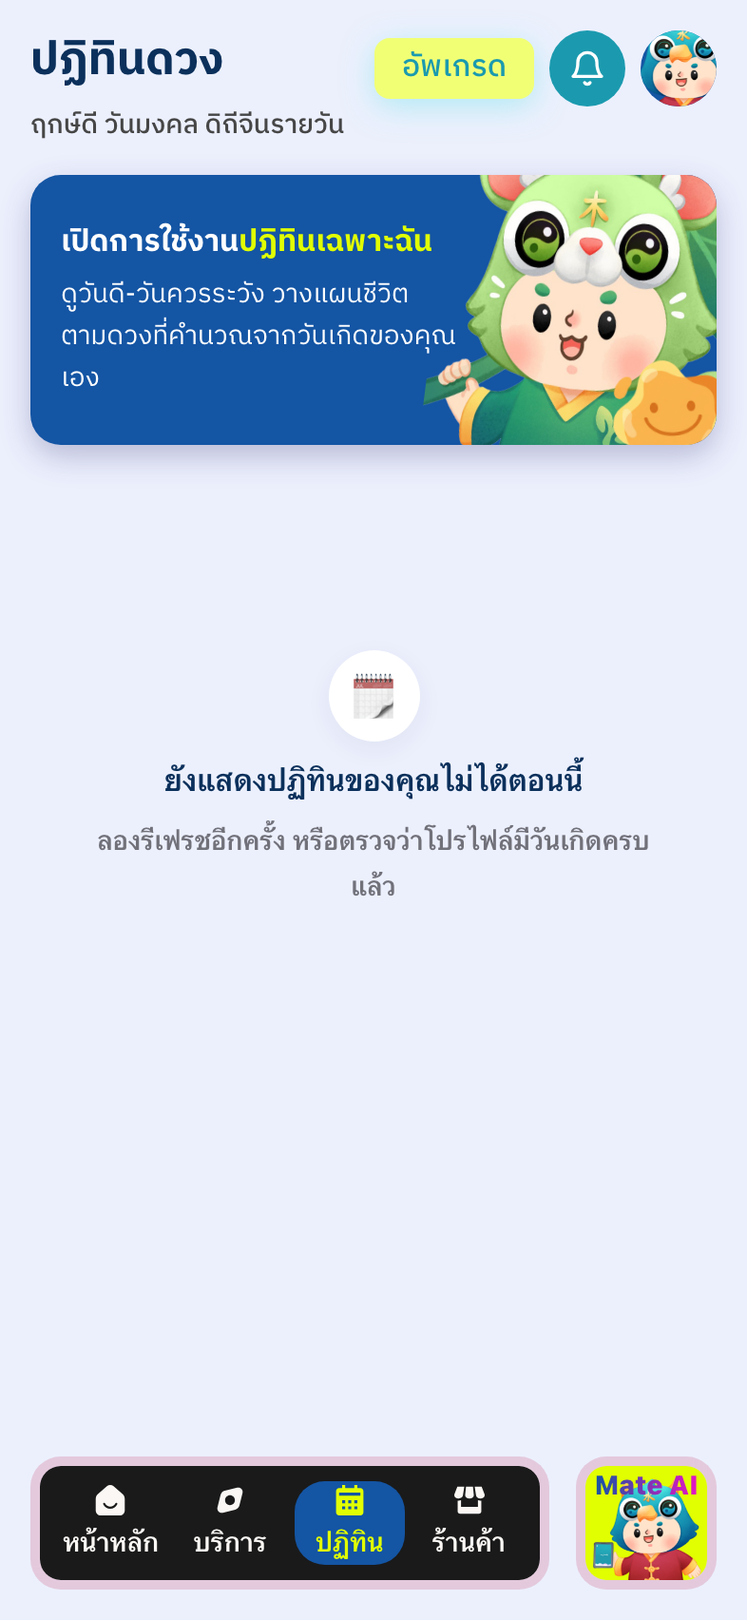
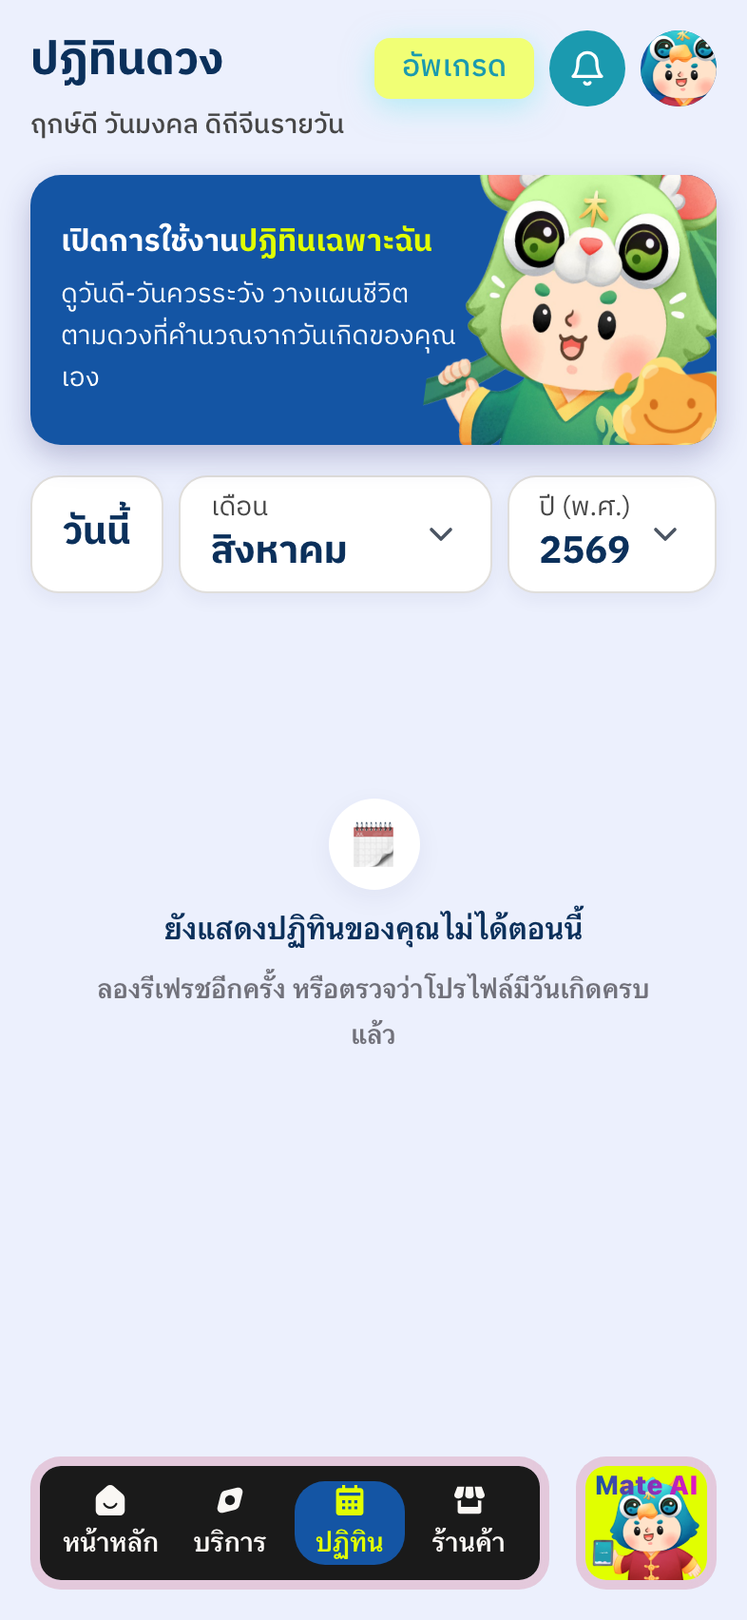
fix(v2-calendar): แถบเลือกวันอยู่ตลอดทุกสภาพ + ช่วงปี 21 ปี
แถบ [วันนี้][เดือน][ปี] เคยอยู่ใน viewState === 'ready' → มันหายไปพร้อมกับ
ทางออกเดียวที่ผู้ใช้มี ตอนเดือนโหลดไม่สำเร็จ/กำลังโหลด/บัญชีไม่มีวันเกิด

วัดบน main a4560da ก่อนแตะโค้ด (393×852 · context ใหม่ทุกสภาพ · API stub):
  แถบโผล่ 1 ใน 6 สภาพ
  กดเปลี่ยนเดือน → หายจริง 53/200 เฟรม (t=183…1048ms) ยาวเท่าเวลา fetch
  cold load: first-bar 378ms = first-grid 378ms (แถบไม่เคยมาก่อนตาราง)
หลังแก้: หาย 0 เฟรม · top/height คงที่ · first-bar 301ms < first-grid 314ms

- pages/v2/calendar.tsx  ย้าย <DateSelector/> ออกนอกเงื่อนไข ready
                         ลำดับ promo · selector · body เท่าเดิม แถบไม่ขยับ
- DateSelector.tsx       รับ number|null (seam ใหม่ของ goo 6ddab14) → "—" +
                         disabled ตอน cursor ยังไม่ลง, ไม่มีเดือนปลอม
                         ช่วงปี 11 → 21 (ย้อน 10 หน้า 10 — ฟีม)
- CalendarSkeleton.tsx   ถอดแถบปลอม 46px ออก (ของจริง 62px มาตลอดแล้ว)
                         46↔62 คือการเลื่อน 16px ที่เกิดเพราะ stand-in ถือขนาดเอง

ไม่มีด่านใหม่ — เติม 6 assertion ลง run-calendar-select.ts ที่ต่อ CI อยู่แล้ว
มิวแทนต์ mut-selector-hidden (ใส่เงื่อนไข ready กลับ): 31/0 → 25/6 exit=1
รอบแรกมันทำให้ด่าน crash ไม่ใช่แดง → ใส่ guard จนแดงครบแล้ววิ่งจนจบ

negative control หัก scrollIntoView ที่ผมเขียนเองทิ้ง: ปีปัจจุบันเห็นครบอยู่แล้ว
ทั้ง 852/667/600/520 และมันบัง 2559–2561 = ครึ่ง "ย้อน 10" ที่เพิ่งสั่ง

🔴 ยังเปิดอยู่ ไม่ได้แก้ในใบนี้: /api/user ล้ม → computeTier คืน isPaid null
[…]

diff --git a/features/v2-calendar/components/DateSelector.tsx b/features/v2-calendar/components/DateSelector.tsx
@@ -16,6 +16,21 @@
 //
 // The cursor still belongs to goo's `useCalendarMonth` (goPrev/goNext/goToday). This component does not own
 // state; `onPick(year, month)` is applied by stepping that cursor, so the hook's signature is untouched.
+//
+// ── selector-always (2026-08-07) ────────────────────────────────────────────────────────────────────────
+// This row used to render only inside the page's `viewState === 'ready'` branch, so the moment a month was
+// in flight or failed to arrive it vanished — WITH the only controls that could get the user out. Measured
+// on main a4560da before touching anything: present in 1 of 6 states, and gone for 53 consecutive frames
+// (~865ms, i.e. as long as the fetch takes) on every ordinary month change. It is now rendered in every
+// state, which puts two new obligations on this component:
+//
+//   • `year` / `monthIndex` are `number | null` (goo's revised seam @6ddab14). `null` means the cursor has
+//     not resolved — pre-mount / SSR / first paint — and it is the reason the old `?? MOCK_YEAR` fallback
+//     died: a bar that is always on screen would have made "กรกฎาคม 2569" a permanent, believable lie.
+//     A neutral em dash is the honest label; the two pickers are disabled because there is no cursor to
+//     move yet. Nothing else changes shape, so resolving the cursor cannot shift the row.
+//   • the year list is 21 wide (−10…+10, ฟีม 2026-08-07) instead of 11, which is more than fits a short
+//     screen — see the note in Sheet for what that does and does NOT need.
 import { useState } from 'react'
 
 const THAI_MONTHS = ['มกราคม', 'กุมภาพันธ์', 'มีนาคม', 'เมษายน', 'พฤษภาคม', 'มิถุนายน', 'กรกฎาคม', 'สิงหาคม', 'กันยายน', 'ตุลาคม', 'พฤศจิกายน', 'ธันวาคม']
@@ -36,15 +51,23 @@ function Sheet({ title, options, current, onPick, onClose }: {
   onPick: (v: number) => void
   onClose: () => void
 }) {
+  // 21 years overflow a 70vh sheet on a short phone (content 460px vs 420px at 393×600 / 364px at 393×520),
+  // so the panel scrolls — MEASURED, not assumed. I also wrote a scrollIntoView to put the current year in
+  // view and then negative-controlled it: with the scroll reset to 0 the current year is STILL fully visible
+  // at 852 / 667 / 600 / 520. It is pinned at index 10 of 21 → row 4 of 7, which is above the fold at every
+  // height a phone has. The scroll was solving nothing and cost something (it opened the list 27–60px down,
+  // clipping 2559–2561 — the "ย้อน 10" half of what ฟีม just asked for), so it is gone. The hooks the
+  // control needed (`data-testid="date-sheet"`, `data-current`) stay — they are how the claim was checked.
   return (
     <div className="fixed inset-0 z-50 flex items-end justify-center bg-black/30" onClick={onClose} role="dialog" aria-label={title}>
-      <div className="max-h-[70vh] w-full max-w-md overflow-y-auto rounded-t-[28px] bg-white p-6 pb-10 font-ibm" onClick={(e) => e.stopPropagation()}>
+      <div data-testid="date-sheet" className="max-h-[70vh] w-full max-w-md overflow-y-auto rounded-t-[28px] bg-white p-6 pb-10 font-ibm" onClick={(e) => e.stopPropagation()}>
         <p className="mb-4 text-[16px] font-bold leading-6 text-v3-navy">{title}</p>
         <div className="grid grid-cols-3 gap-2">
           {options.map((o) => (
             <button
               key={o.value}
               type="button"
+              data-current={o.value === current || undefined}
               onClick={() => { onPick(o.value); onClose() }}
               className={`rounded-xl px-2 py-3 text-[14px] font-medium leading-5 ${o.value === current ? 'bg-v3-sapphire text-white' : 'bg-v3-ghost-white text-v3-navy'}`}
             >
@@ -57,41 +80,54 @@ function Sheet({ title, options, current, onPick, onClose }: {
   )
 }
 
+/** ย้อน 10 – หน้า 10 (ฟีม 2026-08-07). Was ±5, which could not reach a birthday two elections ago. */
+const YEARS_BACK = 10
+const YEARS_FORWARD = 10
+/** the label when the cursor has not resolved. NOT a month — see the header. */
+const UNKNOWN = '—'
+
 export function DateSelector({ year, monthIndex, onToday, onPick }: {
-  /** CE year of the cursor — displayed as พ.ศ. (+543) */
-  year: number
-  /** 1–12 */
-  monthIndex: number
+  /** CE year of the cursor — displayed as พ.ศ. (+543). `null` = cursor not resolved yet (pre-mount). */
+  year: number | null
+  /** 1–12. `null` = cursor not resolved yet (pre-mount). */
+  monthIndex: number | null
   onToday: () => void
   onPick: (year: number, monthIndex: number) => void
 }) {
   const [open, setOpen] = useState<null | 'month' | 'year'>(null)
-  // ±5 years around the cursor — enough to plan ahead or look back without an infinite list
-  const years = Array.from({ length: 11 }, (_, i) => year - 5 + i)
+  // A cursor of `null` is the ONLY state where this row cannot act, and both halves of it go together —
+  // there is no such thing as a known month with an unknown year. One flag, so the row cannot render a
+  // live month picker next to a dead year one.
+  const known = year !== null && monthIndex !== null
+  const years = known ? Array.from({ length: YEARS_BACK + 1 + YEARS_FORWARD }, (_, i) => year - YEARS_BACK + i) : []
 
   return (
-    <div data-testid="date-selector" className="flex items-center gap-2 font-ibm">
-      <button type="button" onClick={onToday} data-testid="date-today" className={`${CARD} justify-center px-4 text-[20px] font-bold leading-7 text-v3-navy`}>
+    <div data-testid="date-selector" data-cursor={known ? 'known' : 'unknown'} className="flex items-center gap-2 font-ibm">
+      {/* "วันนี้" is the escape hatch this whole PR exists for — it moves goo's CURSOR, not the month, so it
+          still works when the month failed to load. It is disabled only while there is no cursor to move
+          (goToday is a no-op before mount); a button that looks pressable and does nothing is the bug #191
+          went and fixed everywhere else on this screen. */}
+      <button type="button" onClick={onToday} disabled={!known} data-testid="date-today" className={`${CARD} justify-center px-4 text-[20px] font-bold leading-7 text-v3-navy disabled:opacity-50`}>
         วันนี้
       </button>
 
-      <button type="button" onClick={() => setOpen('month')} data-testid="date-month" className={`${CARD} min-w-0 flex-1 justify-between gap-2 px-4`}>
+      <button type="button" onClick={() => setOpen('month')} disabled={!known} data-testid="date-month" className={`${CARD} min-w-0 flex-1 justify-between gap-2 px-4 disabled:opacity-50`}>
         <span className="flex min-w-0 flex-col items-start">
           <span className="text-[14px] leading-5 text-v3-text-body">เดือน</span>
-          <span className="truncate text-[20px] font-bold leading-7 text-v3-navy">{THAI_MONTHS[monthIndex - 1]}</span>
+          <span className="truncate text-[20px] font-bold leading-7 text-v3-navy">{monthIndex ? THAI_MONTHS[monthIndex - 1] : UNKNOWN}</span>
         </span>
         <Chevron />
       </button>
 
-      <button type="button" onClick={() => setOpen('year')} data-testid="date-year" className={`${CARD} justify-between gap-2 px-4`}>
+      <button type="button" onClick={() => setOpen('year')} disabled={!known} data-testid="date-year" className={`${CARD} justify-between gap-2 px-4 disabled:opacity-50`}>
         <span className="flex flex-col items-start">
           <span className="whitespace-nowrap text-[14px] leading-5 text-v3-text-body">ปี (พ.ศ.)</span>
-          <span className="text-[20px] font-bold leading-7 text-v3-navy">{year + 543}</span>
+          <span className="text-[20px] font-bold leading-7 text-v3-navy">{year === null ? UNKNOWN : year + 543}</span>
         </span>
         <Chevron />
       </button>
 
-      {open === 'month' && (
+      {known && open === 'month' && (
         <Sheet
           title="เลือกเดือน"
           current={monthIndex}
@@ -100,7 +136,7 @@ export function DateSelector({ year, monthIndex, onToday, onPick }: {
           onClose={() => setOpen(null)}
         />
       )}
-      {open === 'year' && (
+      {known && open === 'year' && (
         <Sheet
           title="เลือกปี (พ.ศ.)"
           current={year}

diff --git a/harness/run-calendar-select.ts b/harness/run-calendar-select.ts
@@ -124,6 +124,21 @@ async function main() {
     const anims = await page.$eval('[data-testid="calendar-skeleton"] .animate-pulse', (el) => el.getAnimations().length)
     await page.screenshot({ path: 'harness/out/calendar-state-loading-393.png' })
     check('the loading skeleton pulses (the animation is the claim work is in flight)', anims > 0, `${anims} animations`)
+    // selector-always (2026-08-07) — added to THIS anchor rather than a new one, because it already opens
+    // exactly the states the claim is about. The row used to live inside the page's `ready` branch, so it
+    // vanished while the month was in flight, taking วันนี้/เดือน/ปี with it: measured on main a4560da as
+    // absent in 5 of 6 states and gone for ~865ms on every month change.
+    check('the SELECTOR is still on screen while the month loads', (await page.locator('[data-testid="date-selector"]').count()) === 1)
+    check('and it is the real row, not a grey stand-in', (await page.locator('[data-testid="date-selector"] > button').count()) === 3)
+    // The skeleton used to draw a 46px placeholder bar of its own. It has no testid, so counting selectors
+    // cannot see it — the thing that CAN is the geometry: a leftover bar would sit between the real row and
+    // the grid card and blow the container's single 16px gap apart. Asserting the gap, not the absence.
+    const gap = await page.evaluate(() => {
+      const sel = document.querySelector('[data-testid="date-selector"]')?.getBoundingClientRect()
+      const sk = document.querySelector('[data-testid="calendar-skeleton"]')?.getBoundingClientRect()
+      return sel && sk ? Math.round(sk.top - sel.bottom) : NaN
+    })
+    check('no stand-in bar left stacked under the real one (gap is one container gap)', gap >= 0 && gap <= 20, `gap=${gap}px`)
     // 2 · SKELETON-RESOLVES — and it must END
     await page.locator('[data-testid="calendar-grid"]').waitFor({ timeout: 15000 })
     check('the skeleton is gone once the month lands', (await page.locator('[data-testid="calendar-skeleton"]').count()) === 0)
@@ -145,6 +160,17 @@ async function main() {
     const msg = await page.locator('[data-testid="calendar-unavailable"]').textContent()
     await page.screenshot({ path: 'harness/out/calendar-state-unavailable-393.png' })
     check('it says something rather than showing a silent placeholder', !!msg && msg.trim().length > 10, `"${msg?.trim().slice(0, 40)}…"`)
+    // selector-always — the settled-empty screen is the one a user cannot leave without this row: there is
+    // no month, so there is nothing else on the page to press.
+    const sel = page.locator('[data-testid="date-selector"]')
+    const selHere = (await sel.count()) === 1
+    check('the SELECTOR survives the settled-empty screen', selHere)
+    // Guarded on `selHere`: unguarded, getAttribute/isEnabled on an absent node THROW, and the anchor dies
+    // mid-run instead of reporting — proven live against mut-selector-hidden, which crashed here and
+    // swallowed the two checks below. A gate that crashes reports nothing at all; it must go red and finish.
+    check('its cursor is real, not "unknown"', selHere && (await sel.getAttribute('data-cursor')) === 'known', selHere ? String(await sel.getAttribute('data-cursor')) : 'no selector')
+    // the escape hatch has to be PRESSABLE, not merely painted — #191's bug class
+    check('วันนี้ is enabled here (the way out of a monthless screen)', selHere && (await page.locator('[data-testid="date-today"]').isEnabled()), selHere ? '' : 'no selector')
     await close()
   }
 

diff --git a/pages/v2/calendar.tsx b/pages/v2/calendar.tsx
@@ -44,6 +44,7 @@ export default function V2CalendarPage() {
   // with (goPrev/goNext/goToday) — the seam stays his. React batches the functional updates, so N calls
   // land as a single render.
   const goTo = (y: number, m: number) => {
+    if (year === null || monthIndex === null) return // no cursor to step from (pre-mount); the row is disabled then
     const delta = (y - year) * 12 + (m - monthIndex)
     const step = delta > 0 ? goNext : goPrev
     for (let i = 0; i < Math.abs(delta); i++) step()
@@ -89,6 +90,15 @@ export default function V2CalendarPage() {
             both states rather than being stood in for by a grey block. */}
         {isPaid === false && <PersonalCalendarPromo />}
 
+        {/* selector-always (2026-08-07) — OUTSIDE the ready branch, and that position is the whole PR.
+            It used to live inside it, so the row of controls disappeared exactly when it was the only way
+            out: month in flight, month 500, account with no birth date. Measured on main a4560da before
+            the move — present in 1 of 6 states, and absent for 53 straight frames (~865ms, as long as the
+            fetch takes) on an ordinary month change. It survives here because it binds to goo's CURSOR
+            (year/monthIndex/goToday), which is real in every state, and never to `month`.
+            Order is unchanged: promo · selector · body — so the skeleton→ready swap below cannot move it. */}
+        <DateSelector year={year} monthIndex={monthIndex} onToday={goToday} onPick={goTo} />
+
         {/* M-A — the body is a skeleton until a month is in hand. Rendered, not merely hidden, when ready:
             the card below dereferences `cardDay` on every prop, so a `hidden` column would still evaluate
             them and crash on the very states the skeleton exists for. */}
@@ -96,8 +106,6 @@ export default function V2CalendarPage() {
 
         {viewState === 'ready' && month && cardDay && (
         <>
-        <DateSelector year={year} monthIndex={monthIndex} onToday={goToday} onPick={goTo} />
-
         <MonthGrid weeks={month.weeks} selectedDate={selectedDate} onSelect={selectDay} />
 
         {/* Figma 375:11100 — the card and its CTA are ONE card; the CTA was a separate button below it. */}

diff --git a/features/v2-calendar/components/CalendarSkeleton.tsx b/features/v2-calendar/components/CalendarSkeleton.tsx
@@ -58,13 +58,12 @@ export function CalendarSkeleton({ state }: { state: 'loading' | 'unavailable' }
           contradicting message. A settled screen with nothing to show says so and stops drawing furniture. */}
       {loading && (
       <div className="flex flex-col gap-4 animate-pulse">
-        {/* selector bar — the real one shows a month, and showing the WRONG month (the cursor falls back to
-            the fixture constants before it resolves) would be worse than showing none */}
-        <div className="flex items-center gap-2">
-          <span className={`h-[46px] flex-1 ${BLOCK}`} />
-          <span className={`h-[46px] flex-1 ${BLOCK}`} />
-          <span className={`h-[46px] flex-1 ${BLOCK}`} />
-        </div>
+        {/* NO selector bar here any more (selector-always, 2026-08-07). It used to draw one — three 46px
+            grey blocks — because the real row was locked inside the page's ready branch and the cursor
+            could only offer a fixture month. The real row now renders in every state, above this component,
+            so a placeholder for it would stack a second bar under the first. It was also 46px against the
+            real row's 62px, i.e. the month landing swapped one for the other and moved everything below it
+            by 16px — a shift that existed only because the stand-in was hand-sized. */}
 
         {/* grid card — same padding/gaps as MonthGrid's section, six rows reserved (the maximum a month
             occupies) because the real count is not knowable until the month lands */}

diff --git a/harness/calendar-selector-always.verify-evidence.md b/harness/calendar-selector-always.verify-evidence.md
@@ -1,0 +1,145 @@
+# verify-evidence — แถบเลือกวันอยู่ตลอด (ปฏิทินดวง)
+
+**เงื่อนไขที่รัน (ต้องอ่านก่อนตัวเลข)**
+
+| | |
+|---|---|
+| BEFORE | `main a4560da` · `next dev` :3141 |
+| AFTER | `lamun/selector-always` (goo `6ddab14` + ใบนี้) · `next dev` :3142 |
+| ด่าน CI | **production build + `npx next start` :3142** (เหมือน CI จริง ไม่ใช่ dev) |
+| จอ | 393×852 · dSF 2 · **context ใหม่ทุกสภาพ (cold load ต่อหน้า)** |
+| API | stub ทั้งหมด (`/api/user`, `/api/v2/calendar-month`) — ไม่มี backend จริง |
+| tier | มาจาก `/api/user` ไม่ใช่ `/api/tier` — วัดทั้ง free และ paid |
+
+---
+
+## ปัญหา (วัด ไม่ใช่เดา)
+
+บองเห็นด้วยตาว่าแถบหาย และ**อนุมาน**ว่าตอนเปลี่ยนเดือน "น่าจะหายแวบนึง" ผมวัดก่อนแตะโค้ด:
+
+```
+สภาพ                     BEFORE(a4560da)   AFTER
+1  ready (free)              มี                มี
+1b ready (paid)              —                 มี  (promo=0 · แถบขึ้นไปอยู่ top 92)
+2  เดือนกำลังโหลด            ไม่มี             มี
+3  ไม่มีวันเกิด (settled)     ไม่มี             มี
+3b เดือน 500                 ไม่มี             มี
+5  SSR / ปิด JS              ไม่มี             ไม่มี   (ทั้งคู่ — ไม่มีเดือนปลอมใน HTML)
+```
+
+**กดเปลี่ยนเดือน — สุ่มทุกเฟรม ไม่ใช่มองเอา**
+
+```
+BEFORE   200 เฟรม · แถบ หายไป 53 เฟรม (t=183…1048ms)   ← ไม่ใช่ "แวบ" มันยาวเท่าเวลา fetch
+AFTER    200 เฟรม · แถบ หายไป  0 เฟรม
+ทั้งคู่  top=[250] height=[62] คงที่  ⇒ ไม่เลื่อน ไม่เปลี่ยนขนาด
+```
+
+**cold load** `first-bar 378ms = first-grid 378ms` (before) → `301ms < 314ms` (after) — เดิมแถบ**ไม่เคยมาก่อนตารางเลยสักครั้ง**
+
+---
+
+## ที่แก้
+
+1. `pages/v2/calendar.tsx` — ย้าย `<DateSelector/>` ออกนอก `viewState === 'ready' && month && cardDay`
+   ลำดับเดิม **promo · selector · body** ไม่เปลี่ยน ⇒ skeleton→ready สลับกันข้างล่างแถบ แถบไม่ขยับ
+2. `DateSelector.tsx` — รับ `number | null` (seam ใหม่ของ goo) · ช่วงปี **11 → 21** (ย้อน 10 หน้า 10)
+3. `CalendarSkeleton.tsx` — **ถอดแถบปลอม 46px ออก** ของจริง 62px มาตลอดแล้ว
+   ⚠ นี่คือของที่ไม่มีใครสั่ง แต่ถ้าไม่ถอด = **แถบซ้อนกัน 2 อัน** และ 46↔62 คือการเลื่อน 16px ตอนเดือนลง
+
+## เดือนยังไม่รู้ (`cursor === null`) — **เปิดดูจริง ไม่ได้เดา**
+
+ไม่มีทางไปถึงผ่าน mount order ปัจจุบัน (cursor effect กับ mounted effect ลงคอมมิตเดียวกัน) แต่ type ของ goo บอกว่าเป็นไปได้
+⇒ **"ปลอดภัยเพราะกลไกอื่นบังเอิญกันไว้" ไม่ใช่ invariant** ⇒ handle ตรงๆ แล้ว**บังคับ render ออกมาดู** (mutation ชั่วคราว แล้วถอดออก):
+
+```
+["วันนี้", "เดือน—", "ปี (พ.ศ.)—"]  disabled=[true,true,true]  top=250 height=62
+```
+⇒ ขนาด/ตำแหน่งเท่ากับตอนรู้เดือนเป๊ะ ⇒ **cursor ลงมาแล้วแถบขยับไม่ได้เชิงโครงสร้าง** · ❌ ไม่มี "กรกฎาคม 2569" โผล่สภาพไหน
+
+## แผ่นเลือกปี 21 ปี — **negative control หักข้อสรุปตัวเอง**
+
+ผมเขียน `scrollIntoView` เลื่อนปีปัจจุบันเข้ามาให้ แล้ว control ด้วยการรีเซ็ต scroll เป็น 0 แล้ววัดซ้ำ:
+
+```
+จอ    ตัวเลือก  เนื้อหา/ช่อง   เลื่อนได้   ปีปัจจุบันเห็นครบ(มี fix)  ...(scrollTop=0)   แยกออกไหม
+852     21      460/460        ไม่ต้อง          ✓                       ✓                ไม่
+667     21      460/460        ไม่ต้อง          ✓                       ✓                ไม่
+600     21      460/420        ✓                ✓                       ✓                ไม่
+520     21      460/364        ✓                ✓                       ✓                ไม่
+```
+
+**การวัดแยกไม่ออกทั้ง 4 จอ ⇒ ของที่ผมเพิ่มไม่ได้แก้อะไร** — 2569 ถูกตรึงที่ index 10/21 = แถว 4 จาก 7 ซึ่งอยู่เหนือขอบทุกความสูง
+และมันมีราคา: เปิดมาลิสต์เลื่อนลง 27–60px **บัง 2559–2561 = ครึ่ง "ย้อน 10" ที่ฟีมเพิ่งสั่ง** ⇒ **ลบทิ้ง**
+✅ ช่วง 2559–2579 · ✅ เลื่อนได้จริงบนจอเตี้ย · ✅ พ.ศ. ทุกที่ ไม่มี ค.ศ. หลุด
+
+---
+
+## proof-of-teeth
+
+**ไม่มีด่านใหม่** — ไม่มีไฟล์ใหม่ ไม่มีบรรทัด CI ใหม่ ไม่มี ledger entry ใหม่
+เติม 6 assertion ลง `harness/run-calendar-select.ts` ที่**ต่อ CI อยู่แล้วและเปิดสภาพเหล่านี้อยู่แล้ว**
+(ถ้าถือว่าเกินขอบ ตัดออกได้ 6 บรรทัด ตัวใบไม่กระทบ)
+
+**มิวแทนต์ `mut-selector-hidden`** — ใส่ `viewState === 'ready' &&` กลับไปหน้า `<DateSelector/>` (= บั๊กเดิมเป๊ะ) แล้ว build ใหม่
+
+```
+ปกติ     ✅ run-calendar-select — 31 passed, 0 failed        exit=0
+มิวแทนต์ ❌ run-calendar-select — 25 passed, 6 failed        exit=1
+```
+
+⚠ **รอบแรกมิวแทนต์ทำให้ด่าน crash ไม่ใช่แดง** — `getAttribute`/`isEnabled` บน node ที่ไม่มี = throw ⇒ กลืน check ที่เหลือ
+**ด่านที่ crash รายงานอะไรไม่ได้เลย** ⇒ ใส่ guard แล้ววัดซ้ำจนมันแดงครบ 6 แล้ววิ่งจนจบ
+
+**ด่านทั้ง 5 ที่ CI รัน (production build + `next start` :3142)**
+
+```
+run.ts               exit=0   🟢 GATE PASSED
+run-pixel.ts         exit=0   🟢 PIXEL GATE PASSED
+run-calendar-month   exit=0   🟢 CALENDAR-MONTH PASSED
+run-calendar-select  exit=0   ✅ 31 passed, 0 failed
+capture-coming-soon  exit=0   ✅ 22 passed, 0 failed
+tsc --noEmit         exit=0  · scripts/*.test.ts ทั้งหมด exit=0 · CI-parity build exit=0
+```
+
+📌 **`run.ts` แดง 11 ข้อ ถ้ารันบน `next dev`** และเขียวบน `next start` — วัดบน main ด้วย ได้ผลเหมือนกันเป๊ะ
+⇒ **ของเดิม + ขึ้นกับสภาพแวดล้อม ไม่ใช่ของใบนี้** (กติกาเมื่อวาน: บันทึกสภาพกำกับทุกผล)
+
+ANCHOR: harness/run-calendar-select.ts#the SELECTOR is still on screen while the month loads
+
+---
+
+## adversary sign-off
+
+ผมพยายามหักใบตัวเองด้วย 4 ทาง — 3 ทางหักได้จริงและแก้แล้ว:
+
+1. **"แถบโผล่ทุกสภาพแล้ว"** → หักได้ **ยังไม่จริง** มี state ที่ 6 ที่ไม่โผล่ (ดูข้างล่าง) ⇒ แก้คำอ้างไม่ใช่แก้ตัวเลข
+2. **"วัด tier-pending แล้ว"** → หักได้ ผม mock `/api/tier` ที่**ไม่มีใครเรียก** รอบแรกเลยได้ภาพแถบเต็มๆ และเกือบรายงานว่า "tier-pending มีแถบ" ⇒ ใส่ assert ว่า spinner อยู่บนจอจริงก่อนอ่านค่า
+3. **"scrollIntoView ช่วยให้หาปีเจอ"** → หักได้ negative control บอกว่าแยกไม่ออกทั้ง 4 จอ ⇒ ลบ
+4. **"ด่านใหม่จับได้"** → หักได้ มันไม่แดง มัน **crash** ⇒ guard แล้วพิสูจน์ซ้ำ
+
+**ยังไม่ได้พิสูจน์ (ไม่ใช่ว่าครอบแล้ว):**
+- 320 / 360 กว้าง — วัดที่ 393 อย่างเดียว (แถบไม่เปลี่ยนโครง แต่**ยังไม่ได้เปิดดู**)
+- ตัวเลือก **เดือน** ข้ามปี (ธ.ค.→ม.ค.) วัดผ่านโค้ด `goTo` ที่ไม่ได้แตะ แต่**ไม่ได้กดจริงข้ามปี** — กดข้ามเดือนในปีเดียวกันแล้ว (ส.ค.→ม.ค. ผ่าน)
+- แถบใน `data-cursor="unknown"` — เปิดดูด้วย mutation ชั่วคราว **ไม่ใช่ผ่านทางที่ผู้ใช้เดินมา** (ไปไม่ถึงจริง)
+
+---
+
+## 🔴 หา (state) เพิ่มที่ใบนี้ **ไม่ได้แก้** — ของเดิม ไม่ใช่ blast radius ของผม
+
+**`/api/user` ล้ม ⇒ ปฏิทินตายถาวร** — วัดแล้ว **เหมือนกันทั้ง before และ after**
+
+```
+4c USER-500   spinner ยังหมุนอยู่หลัง 6 วินาที = true   ·   แถบ: ไม่มี   (ทั้ง a4560da และใบนี้)
+```
+
+`computeTier` สาขา errored คืน `{ isPaid: null, loading: FALSE }` = **ไม่รู้ตลอดกาล** และหน้าไม่วาดคอลัมน์เลยตอน `isPaid === null`
+⇒ ผู้ใช้ได้ **spinner ที่ไม่มีวันหยุด + `aria-live` บอก "กำลังโหลดปฏิทิน"** ⇒ **ติดตายจริง** และเป็นตระกูล dead-skeleton ที่ตู๋เคยจับ
+
+**ทำไมไม่แก้ในใบนี้**: แถบผมอยู่ใต้ประตู tier ยกออกมาข้างนอกได้ แต่จะได้ **แถบที่กดได้บนหน้าที่ตายอยู่** = ปุ่มหลอกแบบ #191
+ทางที่ถูกคือให้ tier ที่ settled-แต่ error วาด "จอที่บอกเหตุ" แทน spinner นิรันดร์ — **โครงเดียวกับ `calendarViewState`** ประมาณ 20 นาที
+⇒ **ขอให้ฟีม/บองเคาะ** ไม่ลักไก่ใส่ใบนี้ · เงื่อนไข "โหลดไม่สำเร็จ ❌ ไม่ติดตาย" ที่ใบนี้ปิดคือ**ท่อเดือน** ท่อ identity ยังเปิดอยู่
+
+รอง: `run-calendar-fidelity.ts` timeout ที่ `calendar-day` — **เหมือนกันบน main** (ไม่ stub `/api/user` เดือนเลยไม่มา) · ไม่ได้ต่อ CI · ของเดิม
+
+🤖 Lamun Oracle
